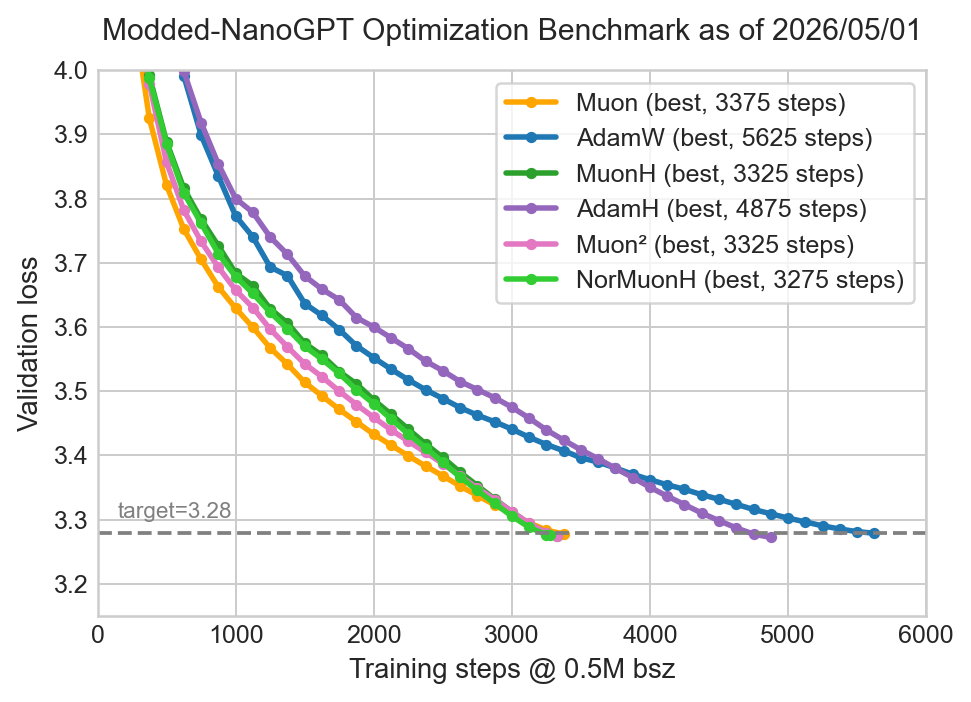
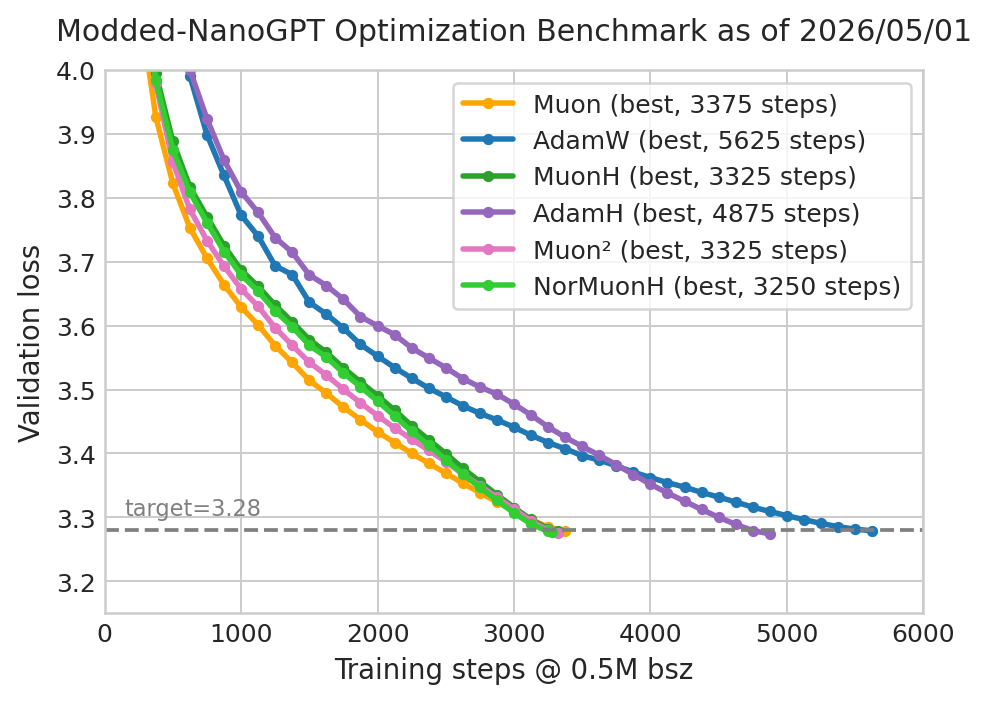
.

Changed region(s): [[0.0, 0.0897, 0.9887, 0.9872], [0.0618, 0.0, 0.9887, 0.0598], [0.7724, 0.5385, 0.8342, 0.5684]]

diff --git a/records/track_3_optimization/make_figures.py b/records/track_3_optimization/make_figures.py
@@ -1,0 +1,172 @@
+import re
+import math
+from collections import defaultdict
+from pathlib import Path
+import matplotlib.pyplot as plt
+
+
+# Extract results
+logfiles = {
+    # key: number in README results history
+    # value: (label, color)
+    6: ('Muon (best, 3375 steps)', '#ffa500'),
+    2: ('AdamW (best, 5625 steps)', '#1f77b4'),
+    5: ('MuonH (best, 3325 steps)', '#2ca02c'),
+    4: ('AdamH (best, 4875 steps)', '#9467bd'),
+    7: ('Muon² (best, 3325 steps)', '#e377c2'),
+    8: ('NorMuonH (best, 3250 steps)', '#32CD32'),
+}
+readme_rows = {}
+row_pattern = re.compile(
+    r'^\|\s*(\d+)\s*\|\s*(\d+)\s*\|\s*([^|]+?)\s*\|.*?\|\s*\[log\]\((results/[^)]+)\)'
+)
+with open('README.md', 'r') as f:
+    for line in f:
+        m = row_pattern.search(line)
+        if m:
+            number = int(m.group(1))
+            steps_to_target = int(m.group(2))
+            evidence = m.group(3).strip()
+            logfile = m.group(4).removeprefix('results/').removesuffix('.txt')
+            readme_rows[number] = (steps_to_target, evidence, logfile)
+pattern = re.compile(r'step:(\d+)/(\d+)\s+val_loss:([0-9.]+)')
+
+
+def get_logfile_paths(logfile):
+    path = Path(f'results/{logfile}.txt')
+    if path.parent == Path('results'):
+        return [path]
+    return sorted(path.parent.glob('*.txt'))
+
+
+def parse_logfile(path):
+    runs = []
+    steps, losses = [], []
+    with open(path, 'r') as f:
+        for line in f:
+            m = pattern.search(line)
+            if m:
+                step = int(m.group(1))
+                loss = float(m.group(3))
+                if step == 0 and steps:
+                    runs.append((steps, losses))
+                    steps, losses = [], []
+                steps.append(step)
+                losses.append(loss)
+    if steps:
+        runs.append((steps, losses))
+    return runs
+
+
+def average_runs(runs):
+    losses_by_step = defaultdict(list)
+    for steps, losses in runs:
+        for step, loss in zip(steps, losses):
+            losses_by_step[step].append(loss)
+    steps = sorted(losses_by_step)
+    losses = [
+        sum(losses_by_step[step]) / len(losses_by_step[step])
+        for step in steps
+    ]
+    return steps, losses
+
+
+max_step = 0
+results = {}
+for number, (label, color) in logfiles.items():
+    if number not in readme_rows:
+        raise RuntimeError(f'No results-history row found in README for #{number}')
+    steps_to_target, evidence, logfile = readme_rows[number]
+    runs = []
+    for path in get_logfile_paths(logfile):
+        runs.extend(parse_logfile(path))
+    if not runs:
+        raise RuntimeError(f'No loss curve found for results/{logfile}.txt')
+    steps, losses = average_runs(runs)
+
+    max_step = max(max_step, max(steps))
+    results[number] = (label, steps_to_target, evidence, steps, losses, color)
+
+
+# Generate figure
+plt.style.use('seaborn-v0_8-whitegrid')
+plt.rcParams['font.family'] = 'DejaVu Sans'
+fig, ax = plt.subplots(figsize=(5.5, 4), dpi=180)
+for label, _, _, steps, losses, color in results.values():
+    ax.plot(
+        steps,
+        losses,
+        marker='o',
+        markersize=3.5,
+        linewidth=2.2,
+        label=label,
+        color=color,
+    )
+ax.axhline(3.28, color='gray', linestyle='--', linewidth=1.5)
+ax.annotate(
+    'target=3.28',
+    xy=(0, 3.28),
+    xytext=(8, 6),
+    textcoords='offset points',
+    color='gray',
+    fontsize=9,
+)
+ax.set_title('Modded-NanoGPT Optimization Benchmark as of 2026/05/01', pad=12, fontsize=12)
+ax.set_xlabel('Training steps @ 0.5M bsz', fontsize=11)
+ax.set_ylabel('Validation loss', fontsize=11)
+ax.legend(frameon=True)
+ax.set_xlim(0, math.ceil(max_step / 1000) * 1000)
+ax.set_ylim(3.15, 4.0)
+ax.tick_params(axis='both', which='major', labelsize=10)
+fig.tight_layout()
+out = 'figure.png'
+fig.savefig(out, bbox_inches='tight')
+print(out)
+
+
+# Generate zoomed-in figure
+zoom_min_step = 3000
+zoom_max_step = 3500
+zoom_results = [
+    result for result in results.values()
+    if result[1] < zoom_max_step
+]
+zoom_losses = [
+    loss
+    for _, _, _, steps, losses, _ in zoom_results
+    for step, loss in zip(steps, losses)
+    if zoom_min_step <= step <= zoom_max_step
+]
+fig, ax = plt.subplots(figsize=(5.5, 4), dpi=180)
+for label, _, evidence, steps, losses, color in zoom_results:
+    ax.plot(
+        steps,
+        losses,
+        marker='o',
+        markersize=3.5,
+        linewidth=2.2,
+        label=f'{label}\n{evidence}',
+        color=color,
+    )
+ax.axhline(3.28, color='gray', linestyle='--', linewidth=1.5)
+ax.annotate(
+    'target=3.28',
+    xy=(zoom_min_step, 3.28),
+    xytext=(8, 6),
+    textcoords='offset points',
+    color='gray',
+    fontsize=9,
+)
+ax.set_title('Modded-NanoGPT Optimization Benchmark, <3500 Steps', pad=12, fontsize=12)
+ax.set_xlabel('Training steps @ 0.5M bsz', fontsize=11)
+ax.set_ylabel('Validation loss', fontsize=11)
+ax.legend(frameon=True)
+ax.set_xlim(zoom_min_step, zoom_max_step)
+if zoom_losses:
+    zoom_margin = 0.01
+    ax.set_ylim(min(zoom_losses) - zoom_margin, max(zoom_losses) + zoom_margin)
+ax.tick_params(axis='both', which='major', labelsize=10)
+fig.tight_layout()
+out = 'figure_zoom.png'
+fig.savefig(out, bbox_inches='tight')
+print(out)

diff --git a/records/track_3_optimization/README.md b/records/track_3_optimization/README.md
@@ -38,7 +38,8 @@ which the PR appeared.
 | 8 | 3250 | 3.27798 (n=10)✓ | [NorMuon](https://arxiv.org/abs/2510.05491)[H](https://psychedelic-sunstone-851.notion.site/Fantastic-Pretraining-Optimizers-and-Where-to-Find-Them-2-1-Hyperball-Optimization-2e924306e6f280e7a5ffee00eb40a0dd) (Muon NS direction + Adafactor-style row/col variance preconditioning, then hyperball constraint on hidden matrices) with per-module init std (attn.proj std=.026, mlp.proj std=.031, mlp.fc std=.031, qkv default), lr=.018 mu=0.95 beta2=0.95 h_cooldown_frac=1.0 aux_cooldown_frac=.4 | 2026/04/30 | [log](results/20260430_normuonh/f45b5dcf-16bb-4e83-b5c7-4ef4981f0e9f.txt)| [PR](https://github.com/KellerJordan/modded-nanogpt/pull/273) | @kaiyue-wen |
 | 9 | 3250 | 3.2771 (n=8)✓ | NorMuon with aux Adam + u/w-floor (wd-free strategy that clamps ‖u‖\_F / ‖w‖\_F to 0.35), lr=.0375 | 2026/04/29 | [log](results/20260501_skylight001/f78af80a-2ba3-4cf7-b9f7-e6e56ff2c54d.txt) | [PR](https://github.com/KellerJordan/modded-nanogpt/pull/274) | @kumarkrishna |
 
-<img width="60%" src="figure.png"/>
+<img width="50%" src="figure.png"/>
+<img width="50%" src="figure_zoom.png"/>
 
 ## Rules
 
